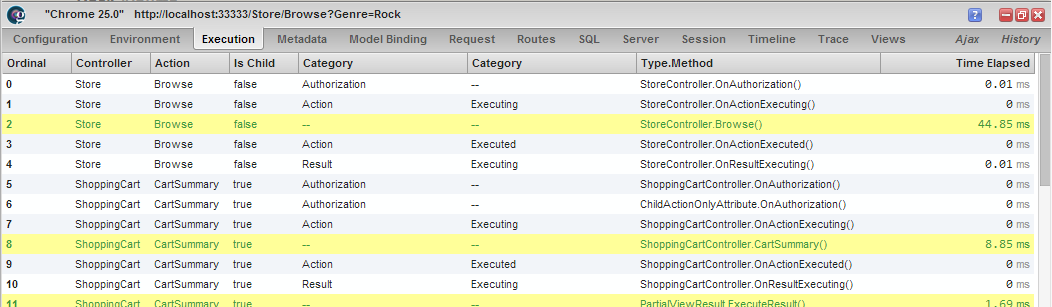
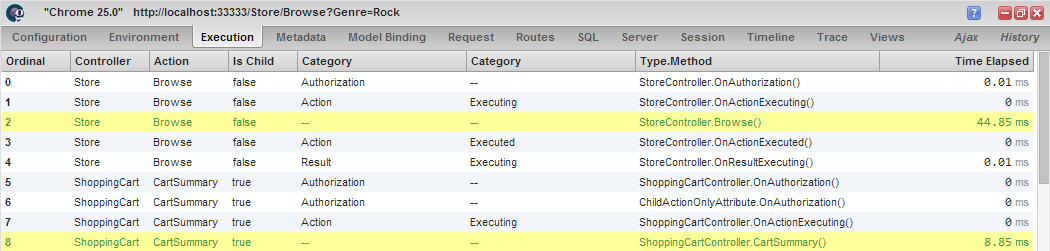
styling tweaks to demo area
increased font size of tooltips and reduced the height of the screen
shot

diff --git a/source/Glimpse.Site/_Content/website-assets/css/tipsy.css b/source/Glimpse.Site/_Content/website-assets/css/tipsy.css
@@ -1,4 +1,4 @@
-.tipsy { font-size: 11px; position: absolute; padding: 5px; z-index: 100000; }
+.tipsy { font-size: 12px; position: absolute; padding: 5px; z-index: 100000; }
   .tipsy-inner { background-color: #000; color: #FFF; max-width: 200px; padding: 5px 8px 4px 8px; text-align: center; }
 
   /* Rounded corners */
